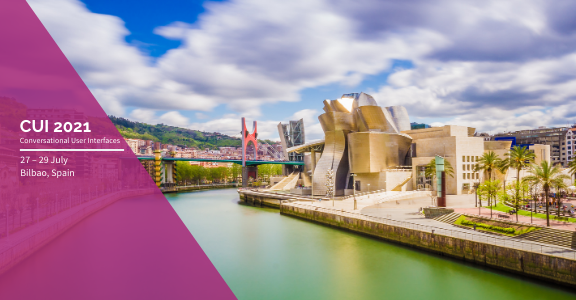
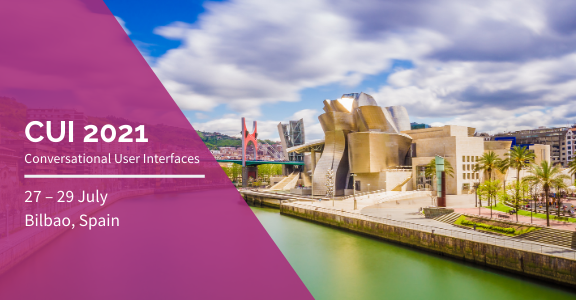
Make the purple masthead part a link

Changed region(s): [[0.0312, 0.0, 0.5625, 1.0], [0.0312, 0.63, 0.1875, 0.69], [0.0312, 0.72, 0.2188, 0.78]]

diff --git a/_sass/theme-style.scss b/_sass/theme-style.scss
@@ -35,7 +35,11 @@ nav {
   @include media-breakpoint-up($breakpoint) {
     header {
       background-image: map-get($header-bg-imgs, $breakpoint);
-      padding-top: map-get($header-pts, $breakpoint);
+      
+      .logo {
+        height: map-get($header-logo-hs, $breakpoint);
+        width: map-get($header-logo-ws, $breakpoint);
+      }
     }
   }
 }

diff --git a/_sass/theme-variables.scss b/_sass/theme-variables.scss
@@ -13,7 +13,15 @@ $header-bg-imgs: (
   lg: url(../img/masthead-lg.png),
   xl: url(../img/masthead-xl.png)
 );
-$header-pts: (
+
+$header-logo-ws: (
+  xs: 270px,
+  sm: 225px,
+  md: 300px,
+  lg: 380px,
+  xl: 590px
+);
+$header-logo-hs: (
   xs: 300px - $nav-height,
   sm: 275px - $nav-height,
   md: 350px - $nav-height,

diff --git a/_layouts/default.html b/_layouts/default.html
@@ -11,6 +11,7 @@
     </head>
     <body class="my-0 mx-auto p-0">
         <header class="w-100">
+			<a href="{{ "/" | relative_url }}" class="d-block logo" title="{{ site.title }} homepage"></a>
 			{%- include navbar_menu.html -%}
 		</header>
 		<section class="container pb-0 pt-3">
